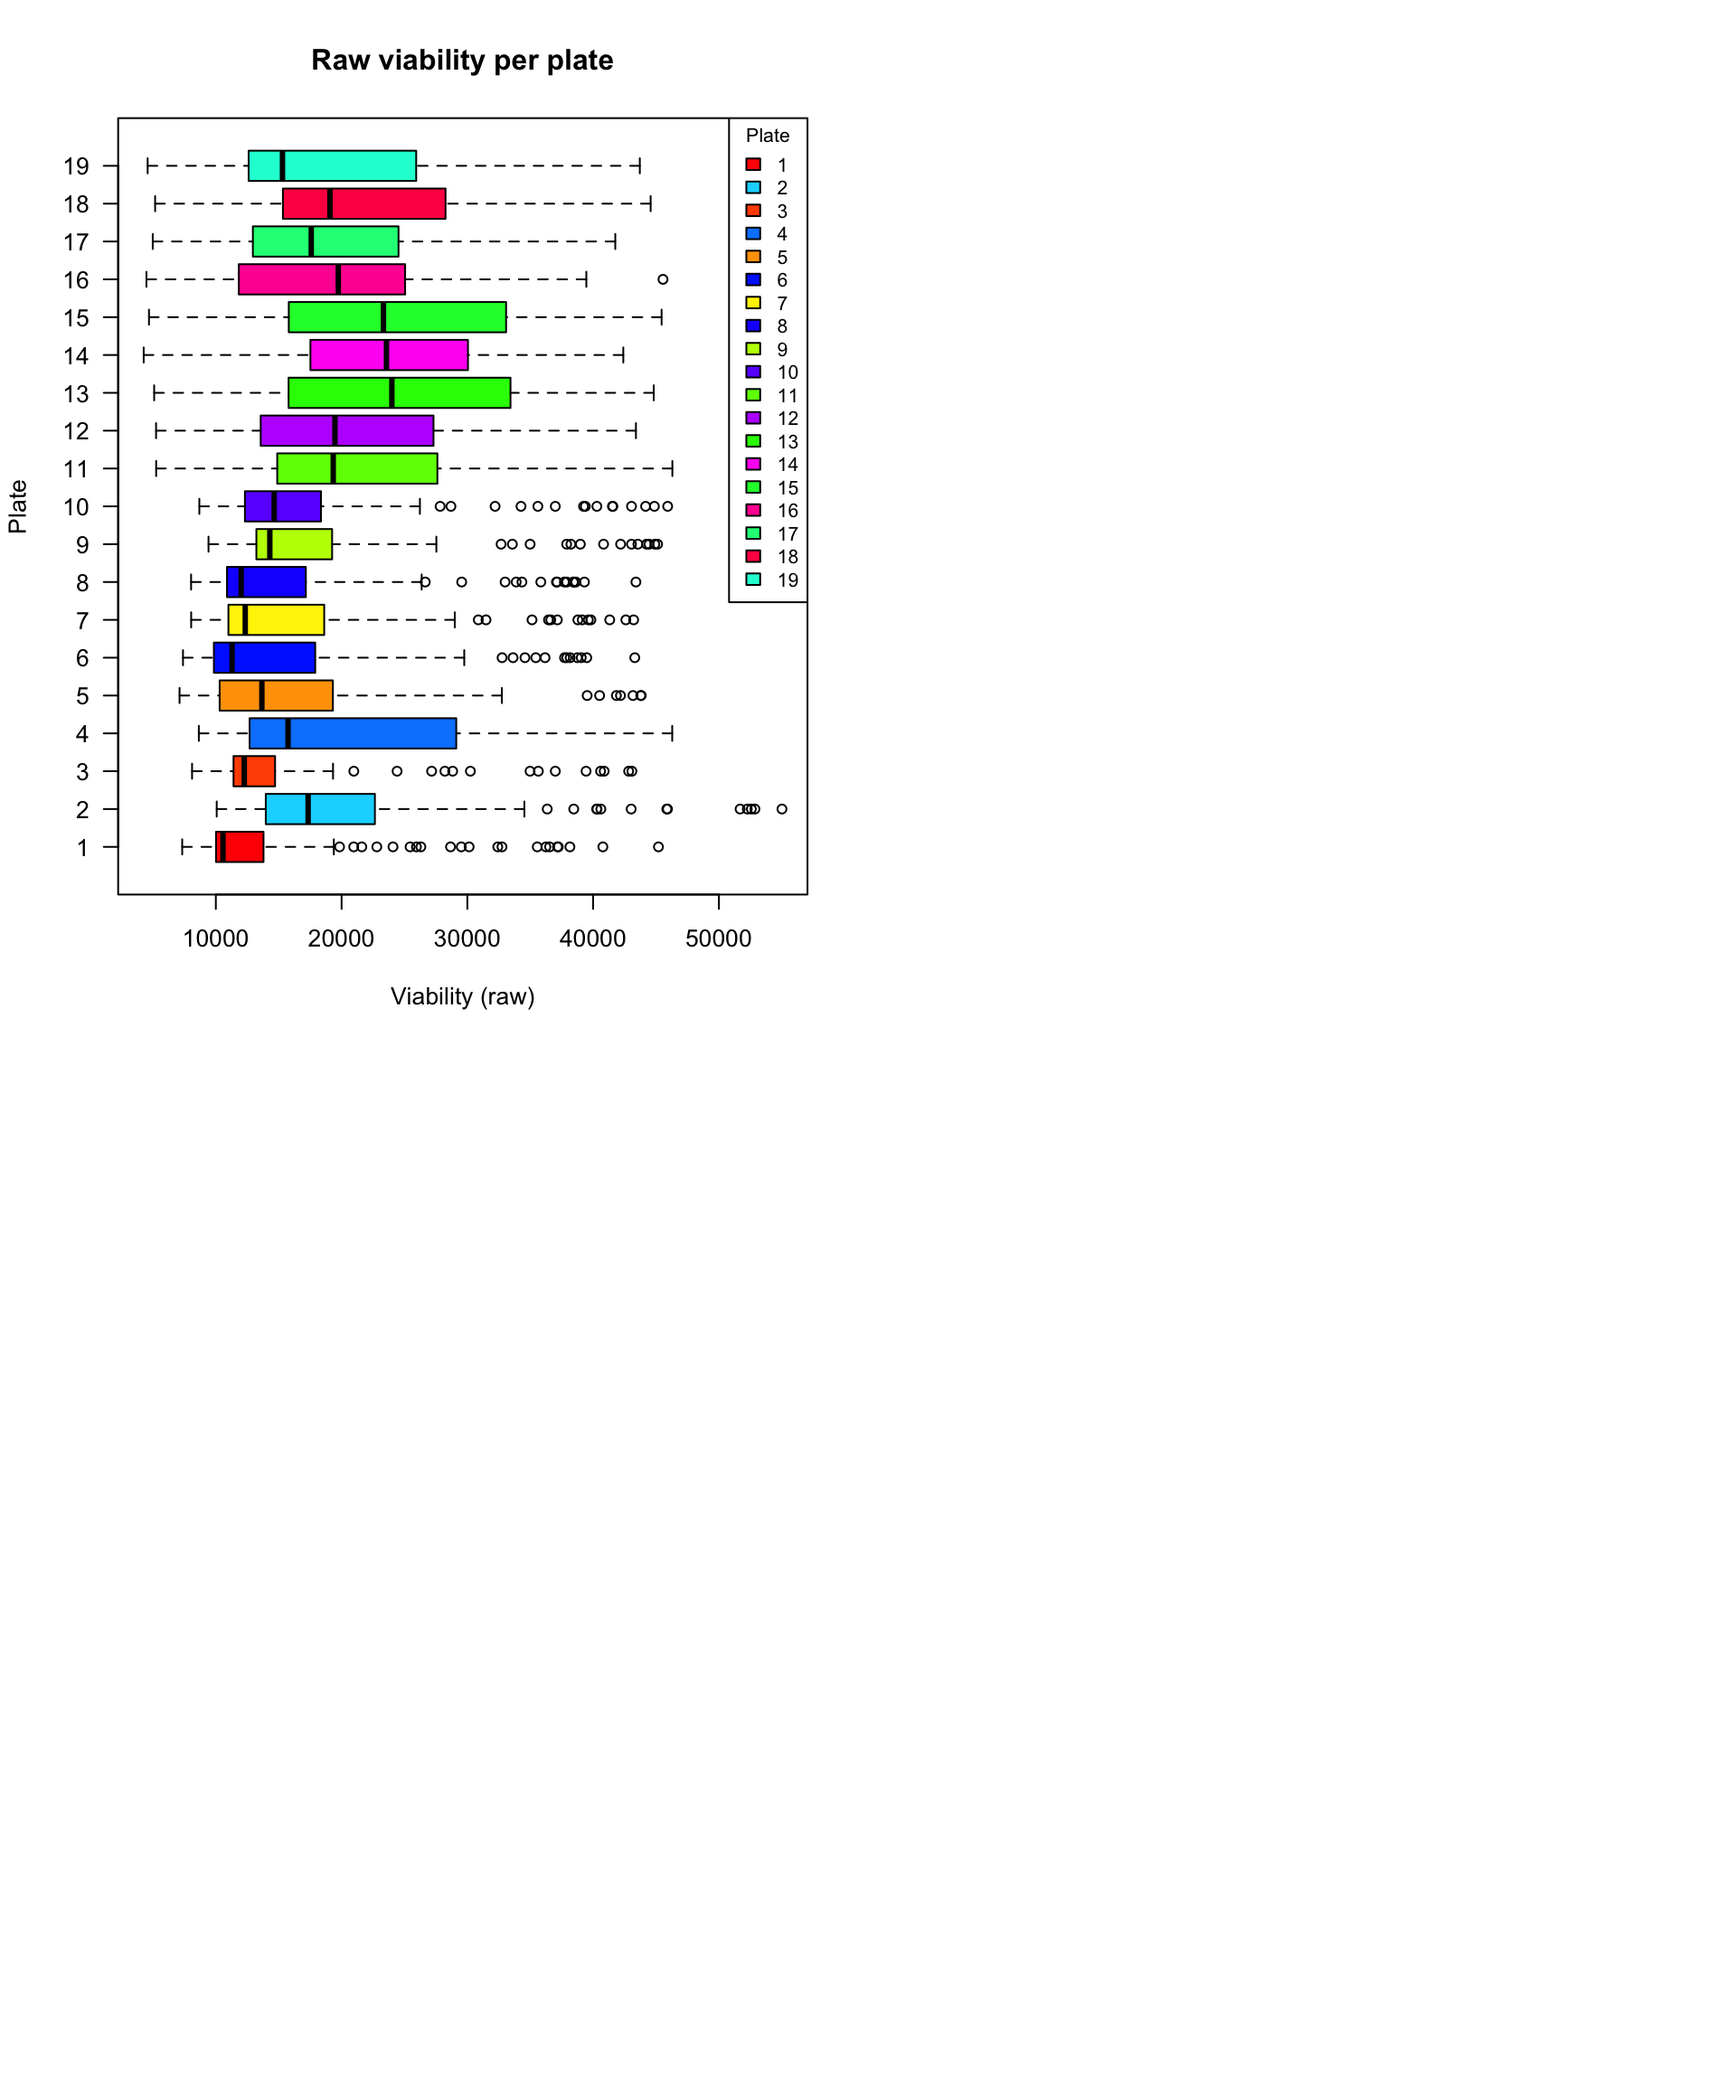
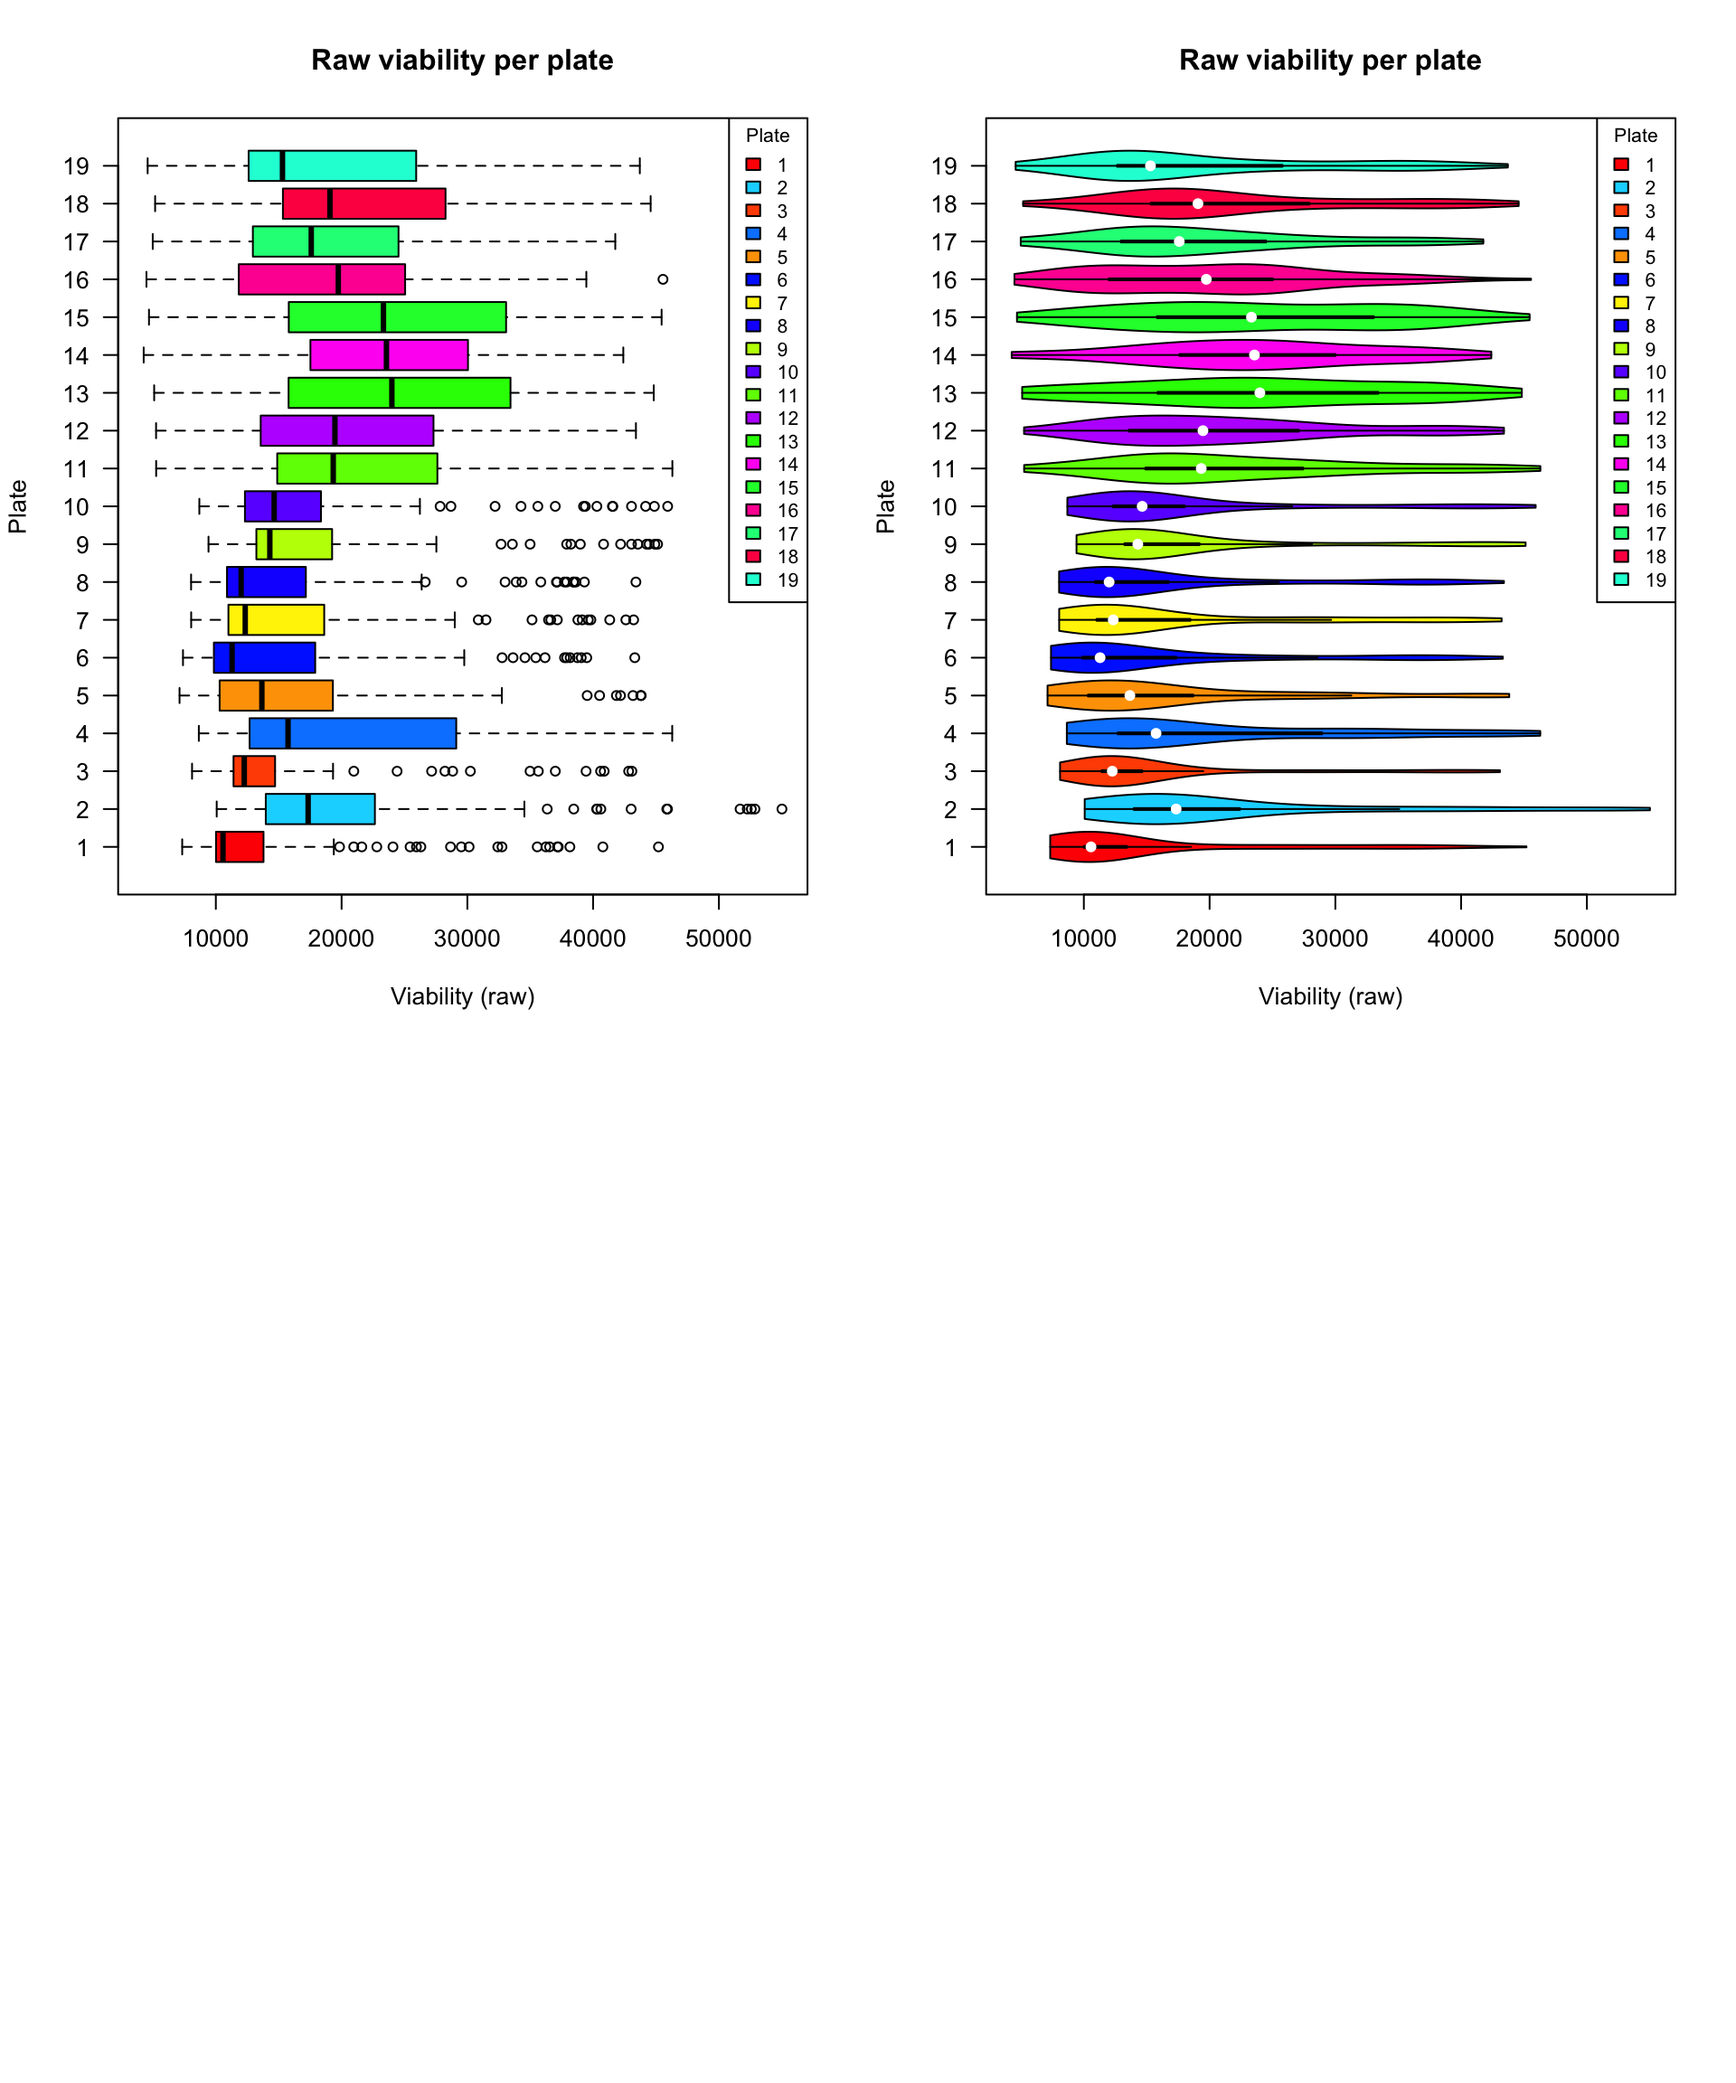
added plate-wise boxplots

diff --git a/reports/Touret_2020_sars-cov-2_in-vitro-screening.html b/reports/Touret_2020_sars-cov-2_in-vitro-screening.html
@@ -623,18 +623,28 @@ Distributions of the raw viability measures. Top: uninfected cells. Middle: infe
 <a class="sourceLine" id="cb6-14" data-line-number="14"><span class="co">## Assign a color to each result according to its plate</span></a>
 <a class="sourceLine" id="cb6-15" data-line-number="15">inhibTable<span class="op">$</span>color &lt;-<span class="st"> </span>plateColor[inhibTable<span class="op">$</span>Plate]</a>
 <a class="sourceLine" id="cb6-16" data-line-number="16"><span class="co"># table(inhibTable$color) ## Check that each plate has 96 wells</span></a></code></pre></div>
-<div class="sourceCode" id="cb7"><pre class="sourceCode r"><code class="sourceCode r"><a class="sourceLine" id="cb7-1" data-line-number="1"><span class="kw">par</span>(<span class="dt">mfrow =</span> <span class="kw">c</span>(<span class="dv">2</span>,<span class="dv">2</span>))</a>
+<div class="sourceCode" id="cb7"><pre class="sourceCode r"><code class="sourceCode r"><a class="sourceLine" id="cb7-1" data-line-number="1"><span class="co">#### Boxplots per plate  ####</span></a>
 <a class="sourceLine" id="cb7-2" data-line-number="2"></a>
-<a class="sourceLine" id="cb7-3" data-line-number="3"><span class="co">#### Boxplots per plate  ####</span></a>
-<a class="sourceLine" id="cb7-4" data-line-number="4"><span class="kw">boxplot</span>(viability <span class="op">~</span><span class="st"> </span>Plate, </a>
-<a class="sourceLine" id="cb7-5" data-line-number="5">        <span class="dt">main =</span> <span class="st">&quot;Raw viability per plate&quot;</span>,</a>
-<a class="sourceLine" id="cb7-6" data-line-number="6">        <span class="dt">data =</span> inhibTable, </a>
-<a class="sourceLine" id="cb7-7" data-line-number="7">        <span class="dt">las =</span> <span class="dv">1</span>, <span class="dt">col =</span> plateColor, </a>
-<a class="sourceLine" id="cb7-8" data-line-number="8">        <span class="dt">xlab =</span> <span class="st">&quot;Viability (raw)&quot;</span>, </a>
-<a class="sourceLine" id="cb7-9" data-line-number="9">        <span class="dt">horizontal =</span> <span class="ot">TRUE</span>)</a>
-<a class="sourceLine" id="cb7-10" data-line-number="10"><span class="kw">legend</span>(<span class="st">&quot;topright&quot;</span>, <span class="dt">legend =</span> <span class="kw">names</span>(plateColor), </a>
-<a class="sourceLine" id="cb7-11" data-line-number="11">       <span class="dt">title =</span> <span class="st">&quot;Plate&quot;</span>, <span class="dt">fill =</span> plateColor, <span class="dt">cex =</span> <span class="fl">0.8</span>)</a>
-<a class="sourceLine" id="cb7-12" data-line-number="12"><span class="kw">par</span>(par.ori)</a></code></pre></div>
+<a class="sourceLine" id="cb7-3" data-line-number="3"><span class="kw">par</span>(<span class="dt">mfrow =</span> <span class="kw">c</span>(<span class="dv">2</span>,<span class="dv">2</span>))</a>
+<a class="sourceLine" id="cb7-4" data-line-number="4"></a>
+<a class="sourceLine" id="cb7-5" data-line-number="5"><span class="kw">boxplot</span>(viability <span class="op">~</span><span class="st"> </span>Plate, </a>
+<a class="sourceLine" id="cb7-6" data-line-number="6">        <span class="dt">main =</span> <span class="st">&quot;Raw viability per plate&quot;</span>,</a>
+<a class="sourceLine" id="cb7-7" data-line-number="7">        <span class="dt">data =</span> inhibTable, </a>
+<a class="sourceLine" id="cb7-8" data-line-number="8">        <span class="dt">las =</span> <span class="dv">1</span>, <span class="dt">col =</span> plateColor, </a>
+<a class="sourceLine" id="cb7-9" data-line-number="9">        <span class="dt">xlab =</span> <span class="st">&quot;Viability (raw)&quot;</span>, </a>
+<a class="sourceLine" id="cb7-10" data-line-number="10">        <span class="dt">horizontal =</span> <span class="ot">TRUE</span>)</a>
+<a class="sourceLine" id="cb7-11" data-line-number="11"><span class="kw">legend</span>(<span class="st">&quot;topright&quot;</span>, <span class="dt">legend =</span> <span class="kw">names</span>(plateColor), </a>
+<a class="sourceLine" id="cb7-12" data-line-number="12">       <span class="dt">title =</span> <span class="st">&quot;Plate&quot;</span>, <span class="dt">fill =</span> plateColor, <span class="dt">cex =</span> <span class="fl">0.8</span>)</a>
+<a class="sourceLine" id="cb7-13" data-line-number="13"></a>
+<a class="sourceLine" id="cb7-14" data-line-number="14"><span class="kw">vioplot</span>(viability <span class="op">~</span><span class="st"> </span>Plate, </a>
+<a class="sourceLine" id="cb7-15" data-line-number="15">        <span class="dt">main =</span> <span class="st">&quot;Raw viability per plate&quot;</span>,</a>
+<a class="sourceLine" id="cb7-16" data-line-number="16">        <span class="dt">data =</span> inhibTable, </a>
+<a class="sourceLine" id="cb7-17" data-line-number="17">        <span class="dt">las =</span> <span class="dv">1</span>, <span class="dt">col =</span> plateColor, </a>
+<a class="sourceLine" id="cb7-18" data-line-number="18">        <span class="dt">xlab =</span> <span class="st">&quot;Viability (raw)&quot;</span>, </a>
+<a class="sourceLine" id="cb7-19" data-line-number="19">        <span class="dt">horizontal =</span> <span class="ot">TRUE</span>)</a>
+<a class="sourceLine" id="cb7-20" data-line-number="20"><span class="kw">legend</span>(<span class="st">&quot;topright&quot;</span>, <span class="dt">legend =</span> <span class="kw">names</span>(plateColor), </a>
+<a class="sourceLine" id="cb7-21" data-line-number="21">       <span class="dt">title =</span> <span class="st">&quot;Plate&quot;</span>, <span class="dt">fill =</span> plateColor, <span class="dt">cex =</span> <span class="fl">0.8</span>)</a>
+<a class="sourceLine" id="cb7-22" data-line-number="22"><span class="kw">par</span>(par.ori)</a></code></pre></div>
 <div class="figure" style="text-align: center">
 <img src="figures/touret_sars-cov-2_inhibitorsboxplots_per_plate-1.png" alt="Distribution of raw viability valyes per plate" width="80%" />
 <p class="caption">
